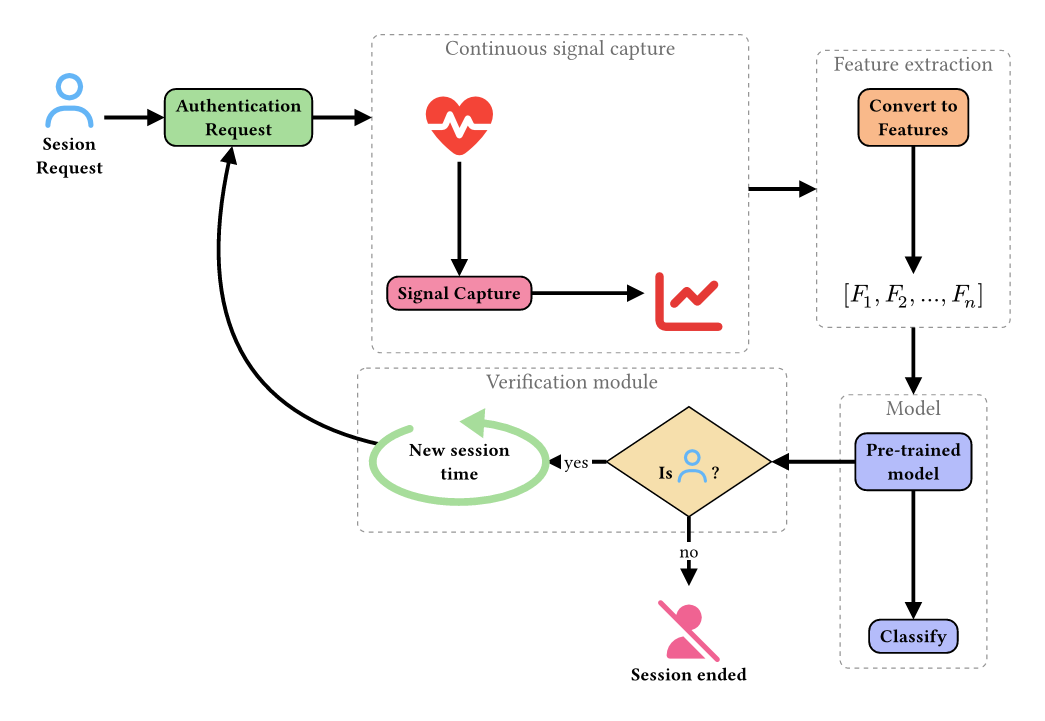
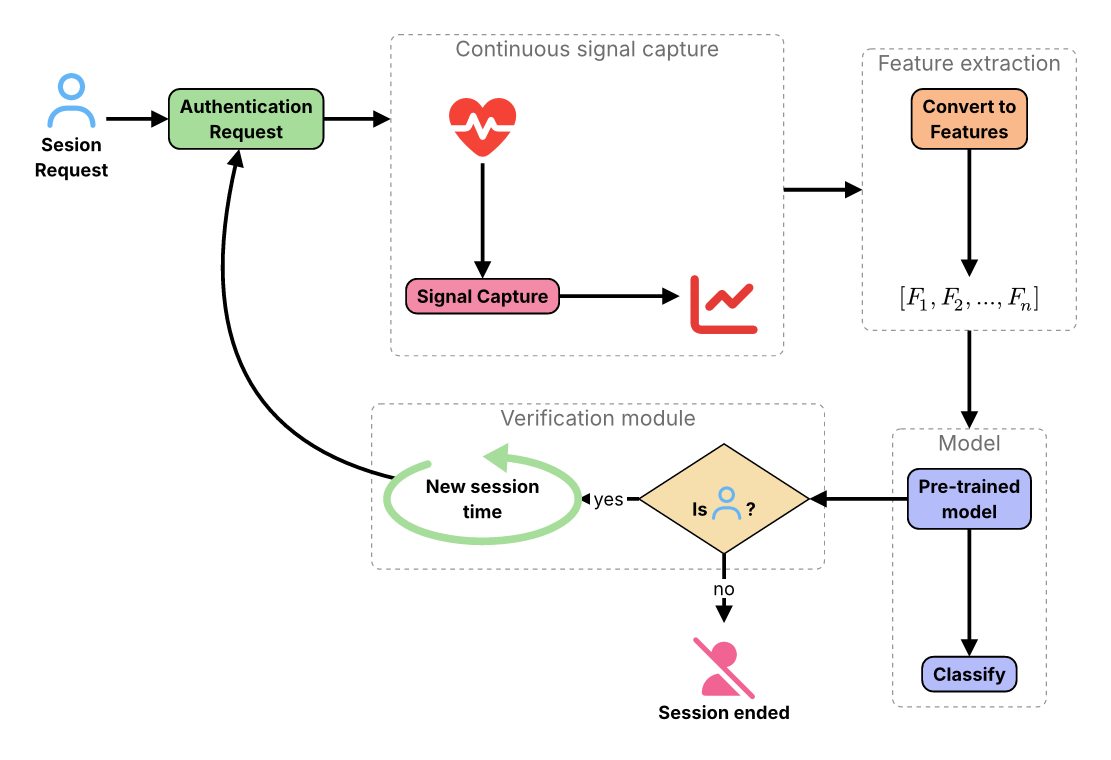
flowchart lanes, port assignment and image examples
- independent-columns: lanes of columns size their own rows
- port assignment: elbow edges reaching the same side get their own slots
- gaps leave room for arrows between linked items; via ends snap to the
  middle of the shape
- README: image usage, verification figure, figures set in Inter and
  regenerated from the README code; images/ecg.svg asset

diff --git a/0.2.0/README.md b/0.2.0/README.md
@@ -30,7 +30,7 @@ Sizes documented as heights are minimums: boxes grow to fit their text. Spacings
 - `edge("a", "b", "c", ..)` — connects nodes (or named groups) in a chain: `a → b → c`. Routing is automatic: straight when the two shapes face each other, elbowed otherwise, and around the row when the straight line is blocked or would overlap a reverse edge. `via:` forces a route through grid points, `bend:` curves the edge.
 - `group(title, "a", "b", ..)` — a dashed frame around nodes, titled on its border or `inside: true`; give it a `name` to connect edges to the whole frame.
 
-Nodes with a `(column, row)` position sit on a grid whose columns and rows take the size of their largest node; fractional positions such as `(0.5, 1)` sit between tracks (centred over two nodes) and widen them when needed. Leave the position out and the layout is automatic: each node goes one layer after its longest chain of predecessors (topological order), and is aligned with its predecessors inside its layer.
+Nodes with a `(column, row)` position sit on a grid whose columns and rows take the size of their largest node; gaps widen to fit group frames, and leave room for an arrow wherever an edge crosses them; fractional positions such as `(0.5, 1)` sit between tracks (centred over two nodes) and widen them when needed. Leave the position out and the layout is automatic: each node goes one layer after its longest chain of predecessors (topological order), and is aligned with its predecessors inside its layer.
 
 See [Paper figures](#paper-figures) for complete diagrams built with these pieces.
 
@@ -120,6 +120,7 @@ A research pipeline placed on the grid, with groups (nodes may hold any content,
 | `inset` | `7pt` | Default padding inside nodes. |
 | `group-stroke` | dashed `luma(150)` | Default group frame. |
 | `group-inset` | `10pt` | Space between a group frame and its nodes. |
+| `independent-columns` | `false` | `true` lets each lane (columns joined by nodes placed between them) size its own rows, so a tall node in one lane does not stretch the others. |
 
 ### node
 
@@ -163,19 +164,31 @@ A research pipeline placed on the grid, with groups (nodes may hold any content,
 
 ## Paper figures
 
-Building blocks for figures in papers and posters: `panels` lays out framed sub-figures with captions and a), b)… labels; `loop-ring` draws a "repeat / continuous" ring around any content; `flowchart` composes method diagrams. The four figures below are complete examples (icons are Font Awesome glyphs; any `image(...)` works the same way).
+Building blocks for figures in papers and posters: `panels` lays out framed sub-figures with captions and a), b)… labels; `loop-ring` draws a "repeat / continuous" ring around any content; `flowchart` composes method diagrams. The figures below are complete examples, set in [Inter](https://rsms.me/inter/) (any installed font works); icons are Font Awesome glyphs.
 
-A method diagram with captions under the boxes, fractional positions, routes through grid points (`via`) and titled groups:
+**Images.** A `node` body, a `panels` item and a `loop-ring` accept any content, so a picture is just `image(...)`; the path is resolved from your own document. Combine it with `fill: none, stroke: none` for a bare picture, and with `caption:` for a label under it:
 
 ```typst
-#set text(size: 16pt, weight: "bold")
+#flowchart(
+  node("sig", (0, 0), image("images/ecg.svg", width: 3cm), fill: none, stroke: none, caption: [ECG]),
+  node("model", (1, 0), [Model]),
+  edge("sig", "model"),
+)
+#panels(columns: 2, (image("images/ecg.svg", width: 4cm), [Raw signal]), ([Filtered], [Caption]))
+```
+
+A method diagram in three lanes: `independent-columns: true` lets each lane stack its own rows, captions hang under the boxes, fractional positions centre a node over two columns, routes go through grid points (`via`) and arrows reaching the same side of a node get their own slots:
+
+```typst
+#set text(font: "Inter", size: 16pt, weight: "bold")
 #let note(t) = text(size: 10pt, t)
 #let title(t) = text(weight: "regular", fill: luma(110), size: 18pt, t)
 #let (green, red, blue, orange, violet) = (rgb("#a7dd9b"), rgb("#f38ba8"), rgb("#89b4fa"), rgb("#f9b98a"), rgb("#b4bcfa"))
 #let s = (stroke: 1.5pt + black)
 
 #flowchart(
-  spacing: (16mm, 9mm),
+  independent-columns: true,
+  spacing: (12mm, 9mm),
   edge-stroke: 1.5pt + black,
   radius: 10pt,
   inset: 10pt,
@@ -189,26 +202,26 @@ A method diagram with captions under the boxes, fractional positions, routes thr
 
   node("feat", (2.5, 0), [Feature extraction], fill: orange, ..s,
     caption: note[Wavelet: bior3.3 \ characteristics by coefficient: \ [mean, std, var, kurtosis, skewness, \ energy, entropy, max, min, median, iqr, range, mad]]),
-  node("f1", (2, 2), [Signal1 F], fill: red.lighten(50%), ..s),
-  node("f2", (3, 2), [Signal2 F], fill: blue.lighten(50%), ..s),
-  node("merge", (2.5, 3), [Merging features], fill: orange, ..s),
-  node("final", (2.5, 4), [Final features], fill: rgb("#f5c2e7"), ..s),
-  node("kfold", (2.5, 5), [Stratified K-Fold], fill: violet, caption: note[Folds: 5 \ [Fold 1] [Fold 2] … [Fold k]], ..s),
+  node("f1", (2, 1), [Signal1 F], fill: red.lighten(50%), ..s),
+  node("f2", (3, 1), [Signal2 F], fill: blue.lighten(50%), ..s),
+  node("merge", (2.5, 2), [Merging features], fill: orange, ..s),
+  node("final", (2.5, 3), [Final features], fill: rgb("#f5c2e7"), ..s),
+  node("kfold", (2.5, 4), [Stratified K-Fold], fill: violet, caption: note[Folds: 5 \ [Fold 1] [Fold 2] … [Fold k]], ..s),
 
   node("list", (4, 0), [List of classifiers], fill: violet, ..s,
     caption: note[classifiers: [Random Forest, Logistic \ Regression, KNN, Decision Tree, \ Naive Bayes, Extra Trees, LDA]]),
-  node("cv", (4, 2), [Cross-Validation loop], fill: violet, caption: note[Train and test classifier by classifier], ..s),
-  node("report", (4, 3), [Classification Report], fill: violet, caption: note[Save in parquet packages], ..s),
-  node("viz", (4, 4), [Visualization], fill: violet, ..s),
+  node("cv", (4, 1), [Cross-Validation loop], fill: violet, caption: note[Train and test classifier by classifier], ..s),
+  node("report", (4, 2), [Classification Report], fill: violet, caption: note[Save in parquet packages], ..s),
+  node("viz", (4, 3), [Visualization], fill: violet, ..s),
 
   edge("dataset", "load"),
   edge("load", "sig1", "seg", "pre1"),
   edge("load", "sig2", "seg", "pre2"),
-  edge("pre1", "feat", via: ((0, 4.75), (1.48, 4.75), (1.48, 0))),
-  edge("pre2", "feat", via: ((1, 4.55), (1.4, 4.55), (1.4, 0))),
+  edge("pre1", "feat", via: ((0, 4.7), (1.6, 4.7), (1.6, 0))),
+  edge("pre2", "feat", via: ((1, 4.55), (1.5, 4.55), (1.5, 0))),
   edge("feat", "f1", "merge", "final", "kfold"),
   edge("feat", "f2", "merge"),
-  edge("kfold", "list", via: ((3.5, 5), (3.5, 0))),
+  edge("kfold", "list", via: ((3.45, 4), (3.45, 0))),
   edge("list", "cv", "report", "viz"),
 
   group(title[Preprocessing], "dataset", "load", "sig1", "sig2", "seg", "pre1", "pre2", inside: true),
@@ -223,7 +236,7 @@ A method diagram with captions under the boxes, fractional positions, routes thr
 A continuous-authentication scheme: icons as nodes, edges between whole groups, a decision diamond, a `loop` node and a curved back edge:
 
 ```typst
-#set text(size: 12pt, weight: "bold")
+#set text(font: "Inter", size: 12pt, weight: "bold")
 #let ico(code, col, size: 36pt) = text(font: "Font Awesome 7 Free", size: size, fill: col, code)
 #let plain = (fill: none, stroke: none)
 #let title(t) = text(weight: "regular", fill: luma(110), size: 14pt, t)
@@ -266,10 +279,49 @@ A continuous-authentication scheme: icons as nodes, edges between whole groups, 
 
 ![Screenshot of a continuous authentication flowchart with groups, a decision and a loop](images/figure-esquema.png)
 
+A verification pipeline with an image node (`images/ecg.svg`), edges between whole groups and two branches leaving one node through waypoints:
+
+```typst
+#set text(font: "Inter", size: 13pt, weight: "bold")
+#let ico(code, col, size: 44pt) = text(font: "Font Awesome 7 Free", size: size, fill: col, code)
+#let plain = (fill: none, stroke: none)
+#let boxed = (stroke: 1.2pt + black)
+#let title(t) = text(weight: "regular", size: 15pt, t)
+
+#flowchart(
+  spacing: (10mm, 9mm),
+  edge-stroke: 2.5pt + black,
+  radius: 8pt,
+  group-stroke: (paint: luma(120), thickness: 1pt, dash: "dashed"),
+  node("user", (0, 0), ico("\u{f007}", rgb("#c48b9f")), caption: [Sesion \ Request], ..plain),
+  node("watch", (0, 1), ico("\u{f21e}", rgb("#f44336"), size: 52pt), ..plain),
+  node("capture", (0, 2), [Capture], fill: rgb("#f38ba8"), width: 4cm, ..boxed),
+  node("ecg", (1, 2), image("images/ecg.svg", width: 3cm), ..plain),
+  node("feat", (2, 1), [Feature extraction], fill: rgb("#f9b98a"), width: 4.6cm, height: 1.6cm, ..boxed),
+  node("prep", (2, 2), [Preprocesing], fill: rgb("#f9b98a"), width: 4.6cm, height: 1.6cm, ..boxed),
+  node("rejected", (1, -1), ico("\u{f235}", rgb("#f06292")), caption: [Rejected], ..plain),
+  node("or", (2, -1), text(weight: "regular", size: 18pt)[OR], ..plain),
+  node("accepted", (3, -1), ico("\u{f4fc}", rgb("#c48b9f")), caption: [Accepted], ..plain),
+  node("auth", (2, 0), [Autentication], fill: rgb("#b4bcfa"), width: 4.6cm, ..boxed),
+
+  edge("user", "capture-box", "features", "verification"),
+  edge("watch", "capture", "ecg"),
+  edge("prep", "feat"),
+  edge("auth", "rejected", via: ((1.75, -1),)),
+  edge("auth", "accepted", via: ((2.25, -1),)),
+
+  group(title[Signal Capture], "watch", "capture", "ecg", name: "capture-box", inside: true),
+  group(title[Feature Engineering], "feat", "prep", name: "features", inside: true),
+  group(title[Verification Stage], "rejected", "or", "accepted", "auth", name: "verification", inside: true),
+)
+```
+
+![Screenshot of a verification pipeline: signal capture, feature engineering and an accept or reject stage](images/figure-verification.png)
+
 Sub-figure grids with `panels`:
 
 ```typst
-#set text(size: 12pt)
+#set text(font: "Inter", size: 12pt)
 #let ico(code, col) = text(font: "Font Awesome 7 Free", size: 34pt, fill: col, code)
 #let row(..icons) = grid(columns: icons.pos().len(), column-gutter: 1.2em, align: horizon, ..icons)
 
@@ -286,7 +338,7 @@ Sub-figure grids with `panels`:
 ![Screenshot of six dashed panels with icons, captions and numbers](images/figure-factors.png)
 
 ```typst
-#set text(size: 12pt)
+#set text(font: "Inter", size: 12pt)
 #let ico(code, col) = text(font: "Font Awesome 7 Free", size: 34pt, fill: col, code)
 #let row(..icons) = grid(columns: icons.pos().len(), column-gutter: 0.8em, align: horizon, ..icons)
 #let op(t) = text(size: 22pt, t)
